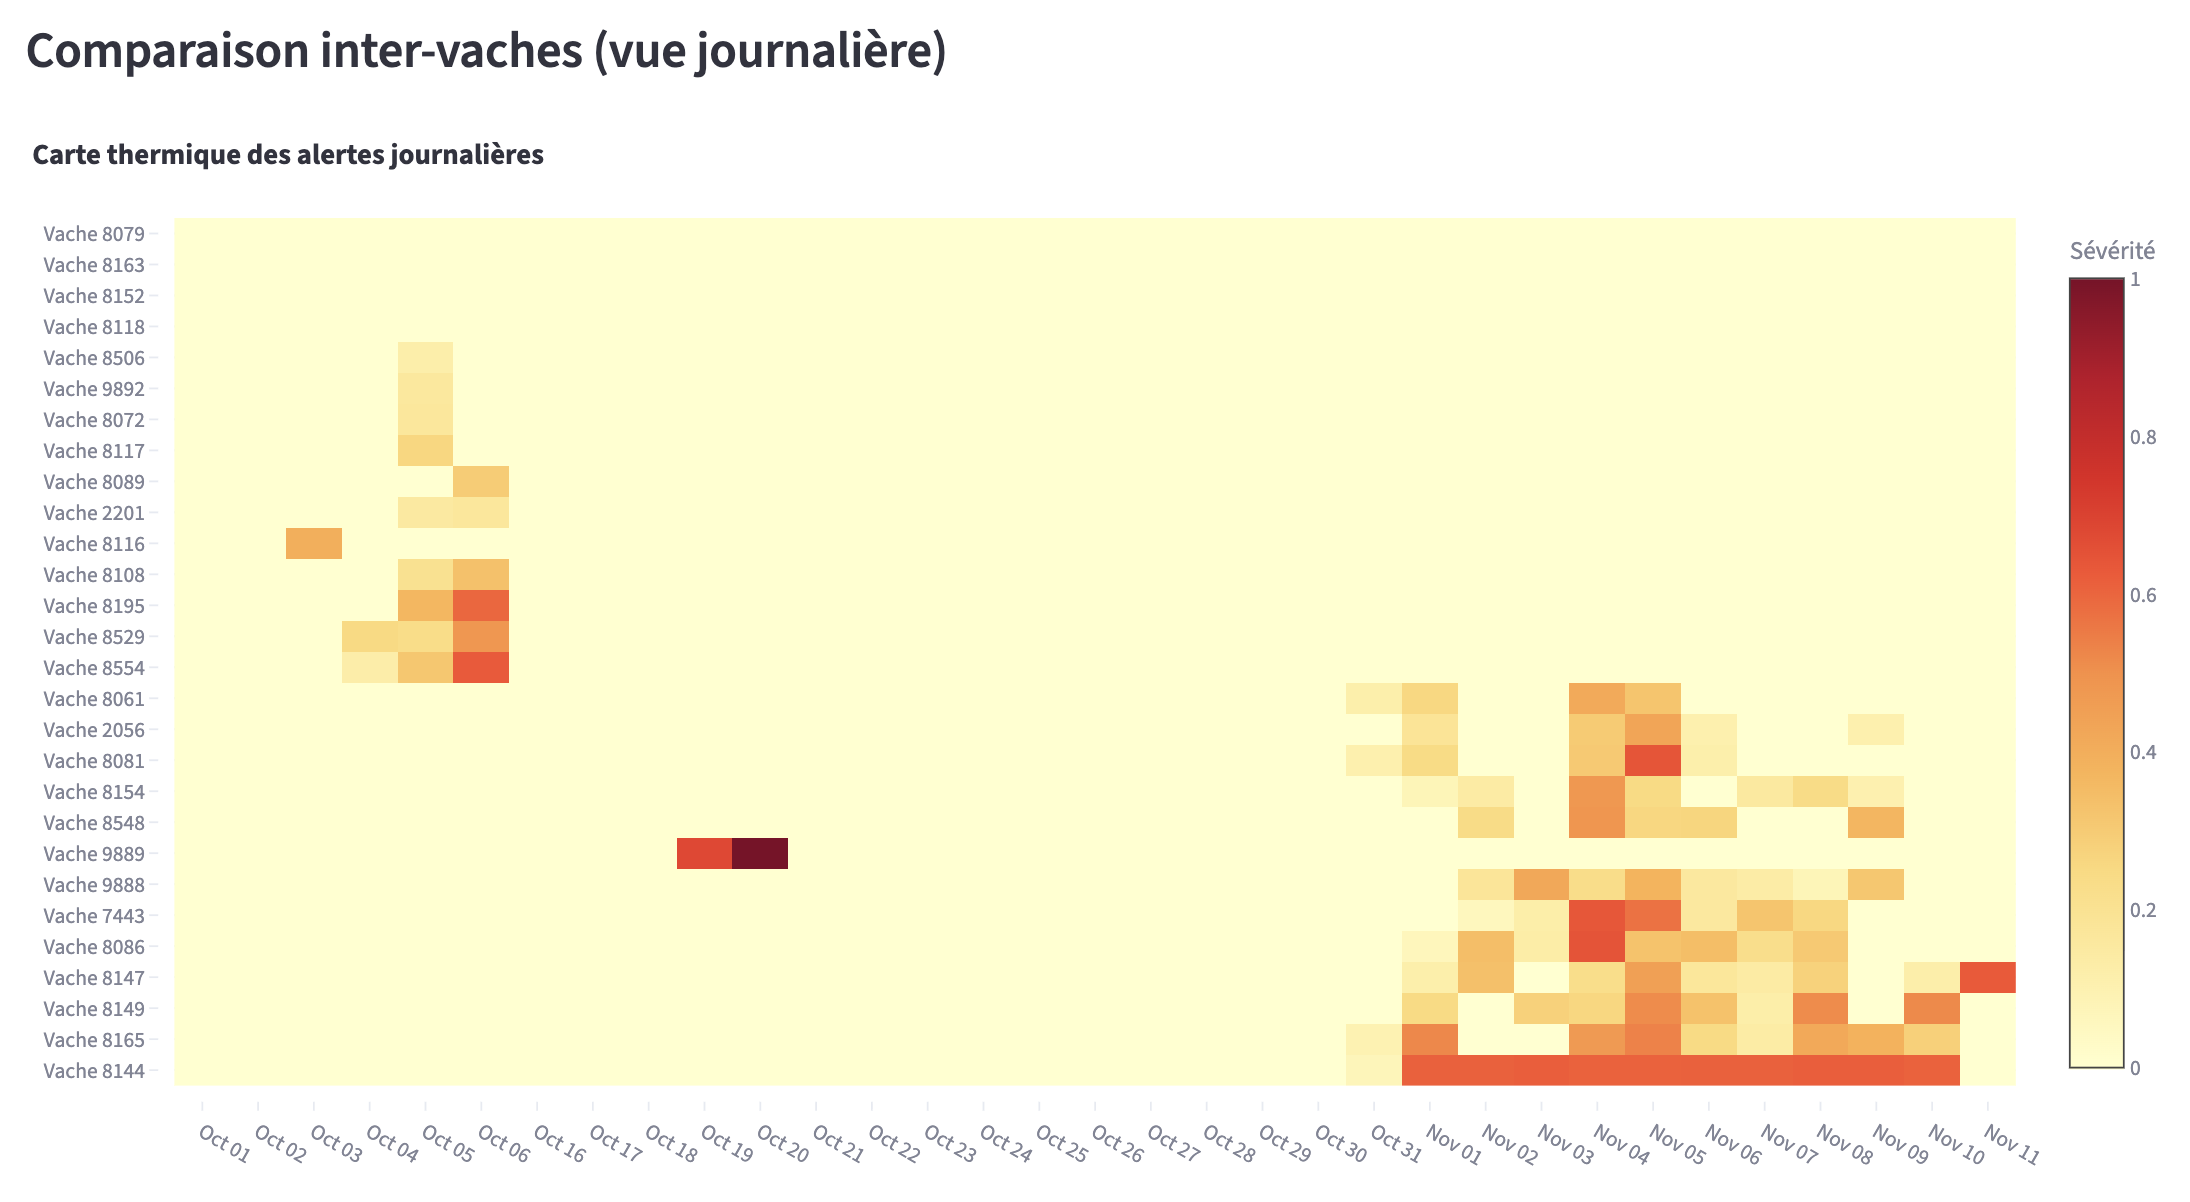
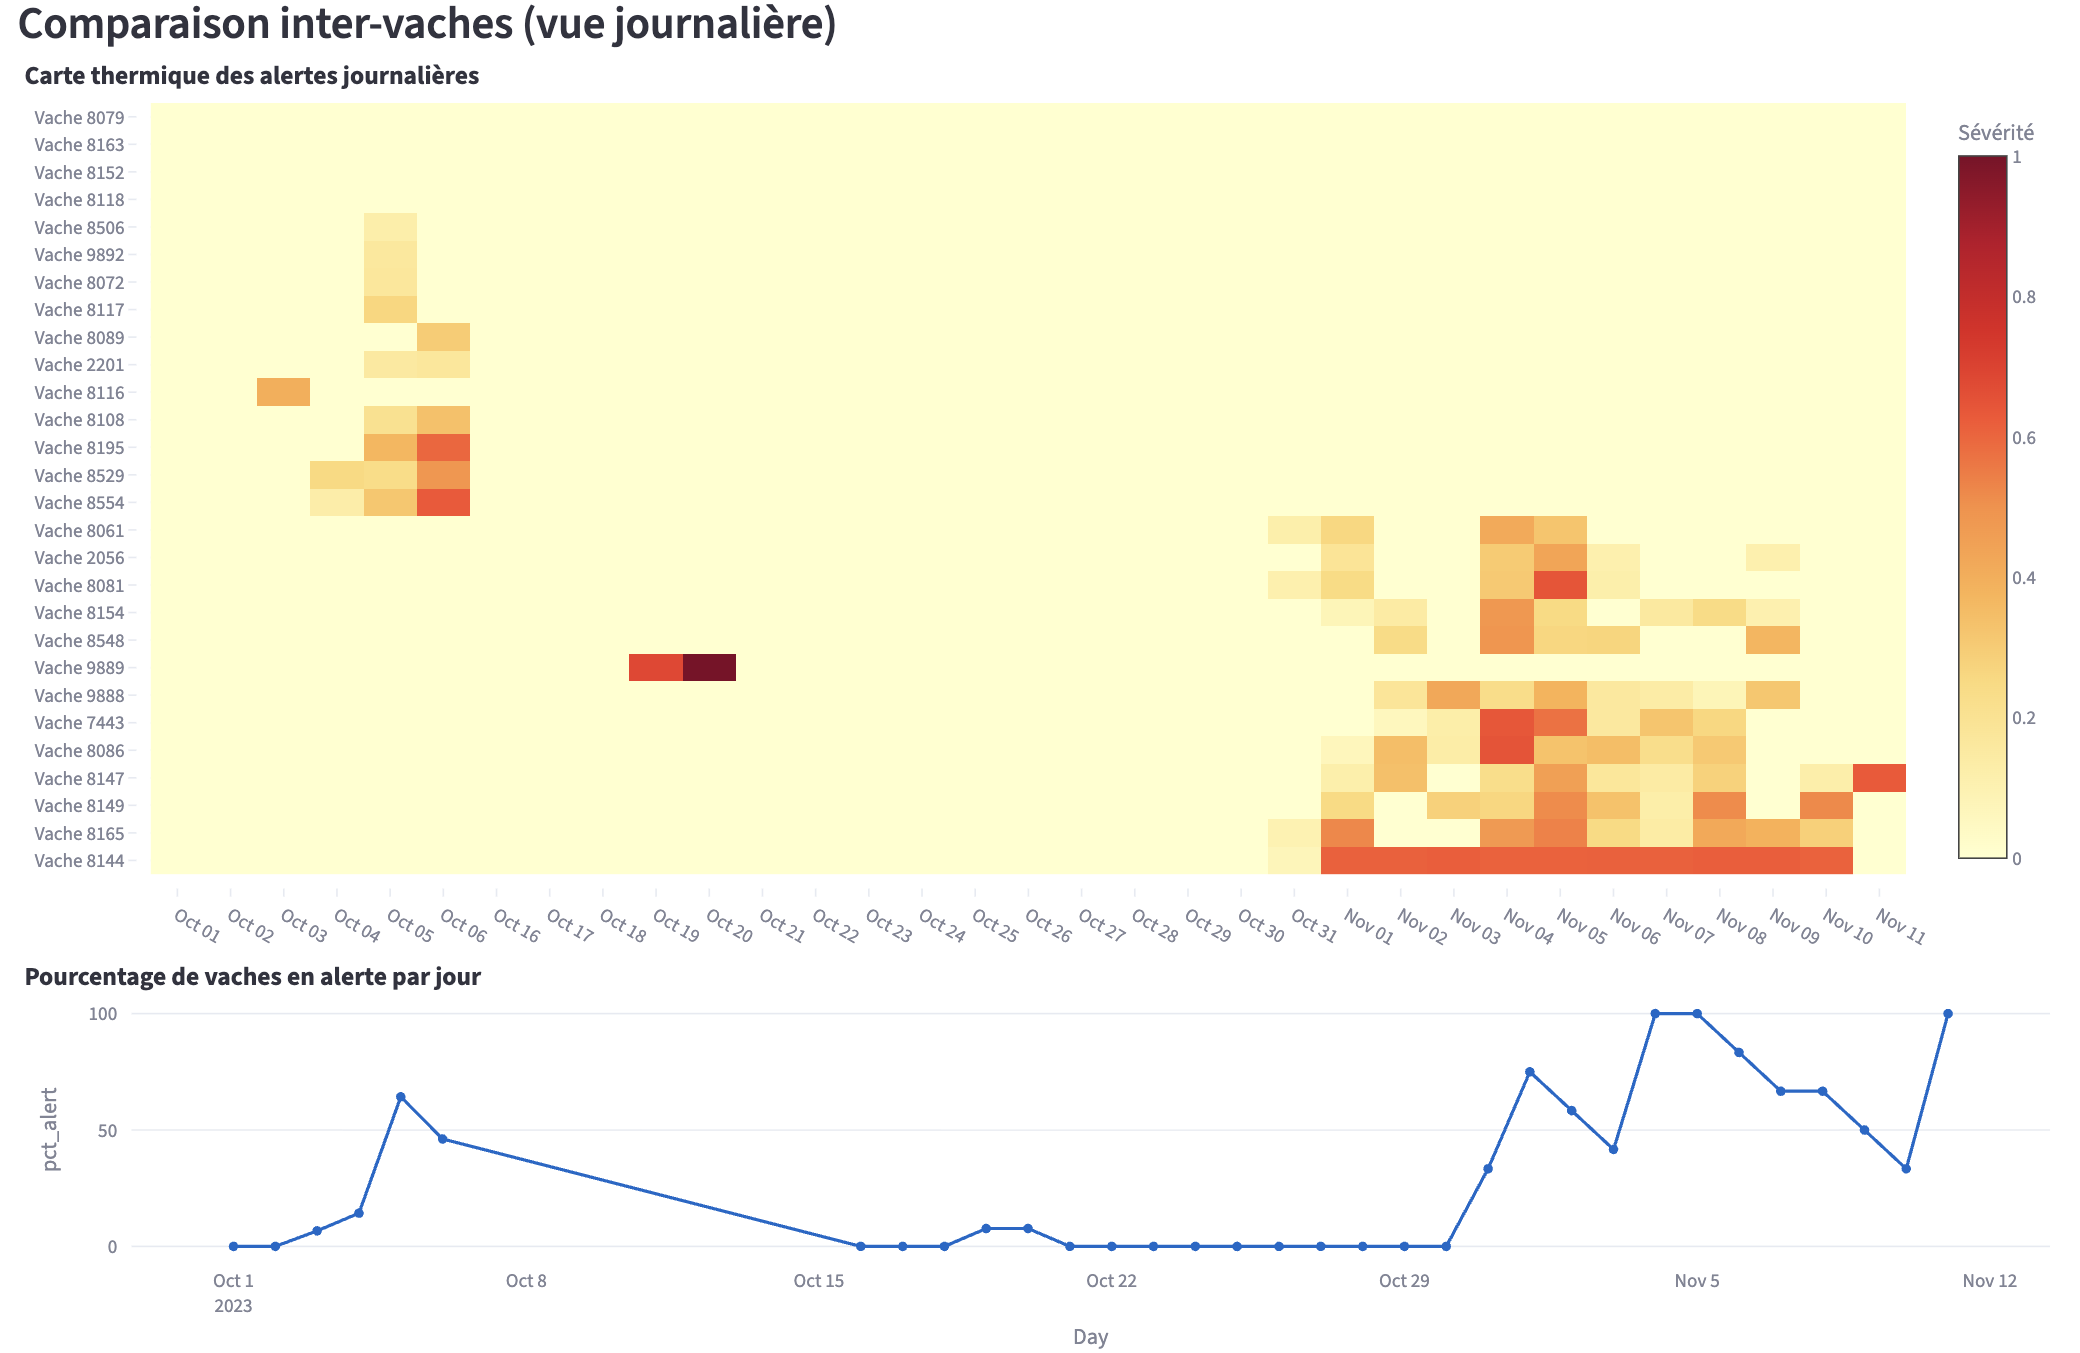
memoirev3: Figure 5.4 reunit la carte thermique et la proportion en alerte
La capture de l'onglet de comparaison inter-vaches integre desormais la
courbe du pourcentage de vaches en alerte par jour, jusqu'ici absente du
manuscrit alors que l'interface la produit.

Les espaces vides internes de la capture sont resserres de 181 pixels, sans
retirer de contenu, pour que la figure plus haute tienne dans sa page : sans
cela le paragraphe suivant debordait de deux lignes et repoussait la Figure
5.5 en paysage, laissant une page presque vide.

La legende et la fin du paragraphe qui precede sont ajustees en consequence.
Le document reste a 128 pages.

diff --git a/memoire/ch5_interface.tex b/memoire/ch5_interface.tex
@@ -134,12 +134,12 @@ lecture déplace le regard de la vache vers le troupeau et fait apparaître des 
 qu'un classement cumulé masque~: une suite de journées consécutives sur une même vache ne se
 lit pas comme quelques journées dispersées, et plusieurs vaches alertées le même jour
 orientent vers une cause commune, de conduite ou de logement, plutôt que vers un problème
-individuel.
+individuel. La courbe placée sous la carte donne directement cette proportion, jour après jour.
 
 \begin{figure}[H]
   \centering
   \includegraphics[width=0.98\textwidth]{figures/streamlit_heatmap_compact.png}
-  \caption{Alertes journalières par vache.}
+  \caption{Alertes journalières par vache et proportion du troupeau en alerte.}
   \label{fig:streamlit_heatmap}
 \end{figure}
 
